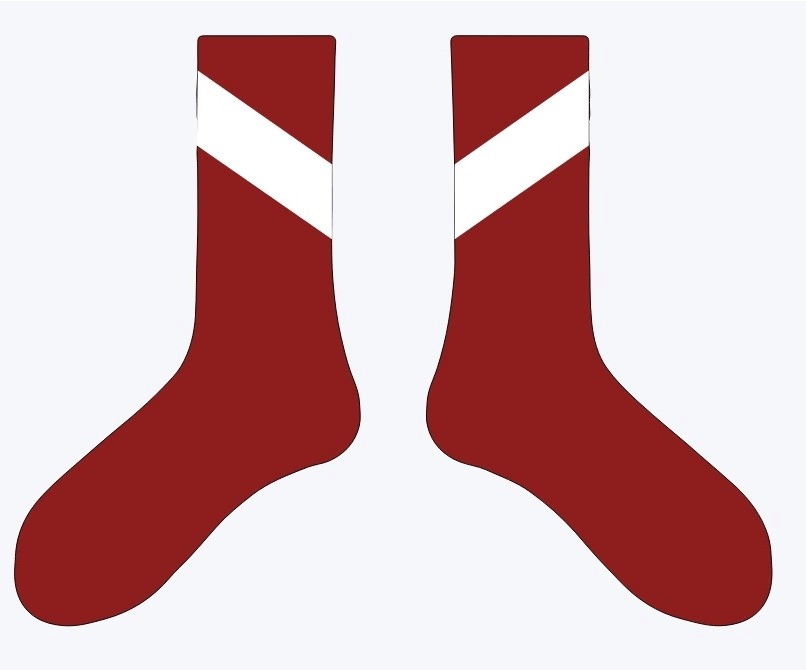
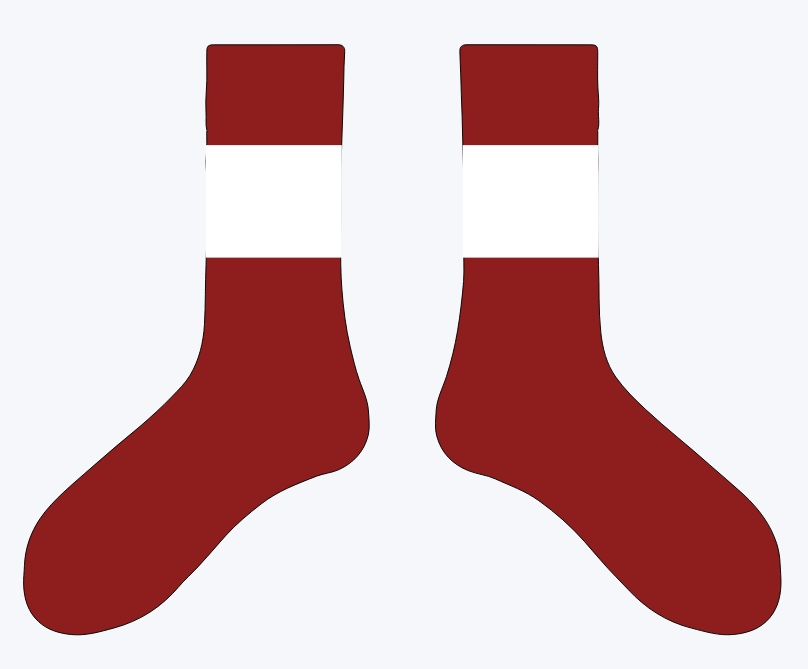
add new sock designs and alter image cropper

diff --git a/src/utils/indexedDB.js b/src/utils/indexedDB.js
@@ -1,38 +1,34 @@
 export function openDatabase() {
   return new Promise((resolve, reject) => {
-    const request = indexedDB.open('LogoDB', 1);
+    const request = indexedDB.open("LogoDB", 1);
 
-    request.onupgradeneeded = event => {
+    request.onupgradeneeded = (event) => {
       const db = event.target.result;
-      db.createObjectStore('logos', { keyPath: 'id' });
+      db.createObjectStore("logos", { keyPath: "id" });
     };
 
-    request.onsuccess = event => {
-      console.log("Database opened successfully");
+    request.onsuccess = (event) => {
       resolve(event.target.result);
     };
 
-    request.onerror = event => {
-      console.error("Database error:", event.target.error);
+    request.onerror = (event) => {
       reject(event.target.error);
     };
   });
 }
 
 export function saveLogo(id, base64String) {
-  return openDatabase().then(db => {
+  return openDatabase().then((db) => {
     return new Promise((resolve, reject) => {
-      const transaction = db.transaction(['logos'], 'readwrite');
-      const store = transaction.objectStore('logos');
+      const transaction = db.transaction(["logos"], "readwrite");
+      const store = transaction.objectStore("logos");
       store.put({ id, data: base64String });
 
       transaction.oncomplete = () => {
-        console.log("Logo saved successfully:", id);
         resolve();
       };
 
-      transaction.onerror = event => {
-        console.error("Error saving logo:", event.target.error);
+      transaction.onerror = (event) => {
         reject(event.target.error);
       };
     });
@@ -40,19 +36,17 @@ export function saveLogo(id, base64String) {
 }
 
 export function getLogo(id) {
-  return openDatabase().then(db => {
+  return openDatabase().then((db) => {
     return new Promise((resolve, reject) => {
-      const transaction = db.transaction(['logos'], 'readonly');
-      const store = transaction.objectStore('logos');
+      const transaction = db.transaction(["logos"], "readonly");
+      const store = transaction.objectStore("logos");
       const request = store.get(id);
 
-      request.onsuccess = event => {
-        console.log("Fetched logo data:", event.target.result?.data);
+      request.onsuccess = (event) => {
         resolve(event.target.result?.data);
       };
 
-      request.onerror = event => {
-        console.error("Error fetching logo:", event.target.error);
+      request.onerror = (event) => {
         reject(event.target.error);
       };
     });

diff --git a/src/components/Designer/SockOutline.tsx b/src/components/Designer/SockOutline.tsx
@@ -17,22 +17,19 @@ const SockOutline: React.FC<SockOutlineProps> = ({
 }) => {
   const [viewBox, setViewBox] = useState("0 50 900 800");
   const [svgSize, setSvgSize] = useState({ width: "400", height: "400" });
-  const [svgPosition, setSvgPosition] = useState("center");
 
   useEffect(() => {
     const updateViewBoxAndSize = () => {
       if (window.innerWidth < 768) {
-        setViewBox("5 120 900 900");
-        setSvgSize({ width: "390", height: "490" });
-        setSvgPosition("center");
+        //5 120 900 900
+        setViewBox("0 120 900 900");
+        setSvgSize({ width: "390", height: "460" });
       } else if (window.innerWidth >= 768 && window.innerWidth < 1024) {
         setViewBox("0 50 900 900");
         setSvgSize({ width: "720", height: "700" });
-        setSvgPosition("center");
       } else {
         setViewBox("200 50 800 800");
         setSvgSize({ width: "900", height: "500" });
-        setSvgPosition("flex-end");
       }
     };
 
@@ -91,7 +88,29 @@ const SockOutline: React.FC<SockOutlineProps> = ({
         />,
       ];
       break;
+
     case 3:
+      patternRectangles = [
+        <rect x="250" y="160" width="145" height="120" fill={stripeColor} />,
+        <rect x="524" y="160" width="145" height="120" fill={stripeColor} />,
+      ];
+      break;
+
+    case 4:
+      patternRectangles = [
+        <path
+          key="path1"
+          d="M 400 52 L 350 52 L 350 256 l 53 109"
+          fill={stripeColor}
+        />,
+        <path
+          key="path2"
+          d="M 572 52 L 520 52 L 518 356 l 51 -94"
+          fill={stripeColor}
+        />,
+      ];
+      break;
+    case 5:
       patternRectangles = [
         <path
           key="path1"
@@ -105,7 +124,7 @@ const SockOutline: React.FC<SockOutlineProps> = ({
         />,
       ];
       break;
-    case 4:
+    case 6:
       patternRectangles = [
         <path
           key="path3"
@@ -155,7 +174,7 @@ const SockOutline: React.FC<SockOutlineProps> = ({
   }
 
   return (
-    <div className={`flex justify-${svgPosition} items-center`}>
+    <div className="flex justify-center items-center overflow-hidden">
       <svg width={svgSize.width} height={svgSize.height} viewBox={viewBox}>
         <path
           d="M251.000000,144.500000 

diff --git a/src/components/Designer/LogoPicker.tsx b/src/components/Designer/LogoPicker.tsx
@@ -262,12 +262,26 @@ const LogoPicker: React.FC<LogoPickerProps> = ({ onLogoSelect, cropperHeight = "
               onCropComplete={onCropComplete}
             />
           </div>
-          <button
-            className="absolute top-2 right-2 bg-black text-white p-2 rounded"
-            onClick={handleCropComplete}
-          >
-            <MdCrop size={24} />
-          </button>
+          <div className="absolute top-2 right-2 flex flex-col space-y-2">
+            <button
+              className="bg-black text-white p-1 rounded"
+              onClick={handleCropComplete}
+            >
+              <MdCrop size={24} />
+            </button>
+            <button
+              className="bg-black text-white p-1 rounded"
+              onClick={() => setZoom((prevZoom) => Math.min(prevZoom + 0.1, 3))}
+            >
+              +
+            </button>
+            <button
+              className="bg-black text-white p-1 rounded"
+              onClick={() => setZoom((prevZoom) => Math.max(prevZoom - 0.1, 1))}
+            >
+              -
+            </button>
+          </div>
         </div>
       )}
       {isLoading && <div className="text-sm">Uploading...</div>}

diff --git a/src/components/Designer/Sidebar.tsx b/src/components/Designer/Sidebar.tsx
@@ -79,6 +79,8 @@ const Sidebar: React.FC<SidebarProps> = ({
     { id: 2, image: "/sock-2.png" },
     { id: 3, image: "/sock-3.png" },
     { id: 4, image: "/sock-4.png" },
+    { id: 5, image: "/sock-5.png" },
+    { id: 6, image: "/sock-6.png" },
   ];
 
   const [showBackgroundColors, setShowBackgroundColors] = useState(false);
@@ -264,7 +266,10 @@ const Sidebar: React.FC<SidebarProps> = ({
               <div className="mb-2">
                 <h1 className="text-xl">Select Logo</h1>
               </div>
-              <LogoPicker onLogoSelect={handleLogoSelect} cropperHeight="h-48" />
+              <LogoPicker
+                onLogoSelect={handleLogoSelect}
+                cropperHeight="h-48"
+              />
             </div>
           )}
 

diff --git a/src/app/page.tsx b/src/app/page.tsx
@@ -40,7 +40,9 @@ const SockSelectionPageContent = () => {
     1: 240,
     2: 250,
     3: 245,
-    4: 250,
+    4: 245,
+    5: 245,
+    6: 250,
   };
 
   useEffect(() => {
@@ -208,7 +210,13 @@ const SockSelectionPageContent = () => {
     <div className="flex flex-col min-h-screen overflow-hidden bg-[#F5F7FA]">
       <div className="flex justify-center lg:justify-end p-4">
         <Link href="/" className="flex items-center gap-3">
-          <Image src="/logo-removed-bg.svg" alt="Grip Gear logo" width={160} height={60} />
+          <Image
+            src="/logo-removed-bg.svg"
+            alt="Grip Gear logo"
+            width={160}
+            height={60}
+            priority
+          />
         </Link>
       </div>
 

diff --git a/src/components/Designer/NavBar.tsx b/src/components/Designer/NavBar.tsx
@@ -13,6 +13,7 @@ const Navbar = () => {
             alt="Grip Gear logo"
             width={180}
             height={60}
+            priority
           />
         </Link>
       </div>
@@ -28,6 +29,7 @@ const Navbar = () => {
               alt="Grip Gear logo"
               width={180}
               height={60}
+              priority
             />
           </Link>
         </div>

diff --git a/src/components/Designer/MobileBar.tsx b/src/components/Designer/MobileBar.tsx
@@ -100,6 +100,8 @@ const MobileBar: React.FC<MobileBarProps> = ({
     { id: 2, image: "/sock-2.png" },
     { id: 3, image: "/sock-3.png" },
     { id: 4, image: "/sock-4.png" },
+    { id: 5, image: "/sock-5.png" },
+    { id: 6, image: "/sock-6.png" },
   ];
 
   const handleColorSelect = (color: string, type: string) => {

diff --git a/src/app/layout.tsx b/src/app/layout.tsx
@@ -19,6 +19,8 @@ export const metadata: Metadata = {
     "Athletic Grip Socks",
     "Anti-slip Socks",
     "Football Socks",
+    "Football Grip Socks",
+    "Grip Socks kids",
     "Soccer Socks",
   ],
 };
